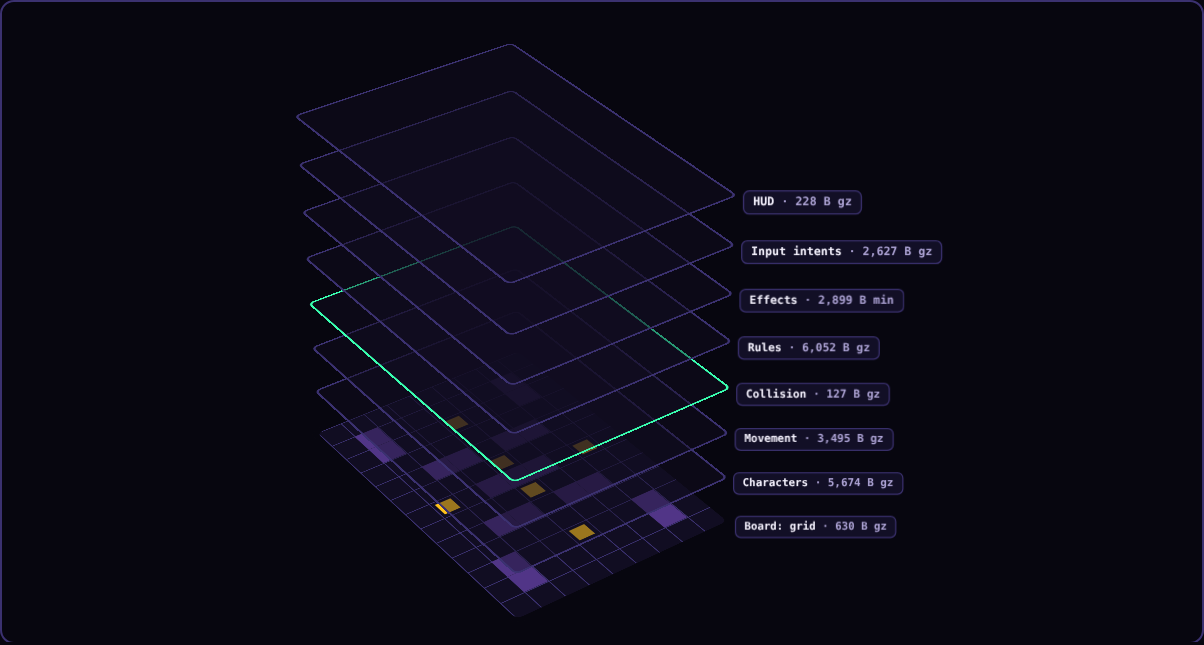
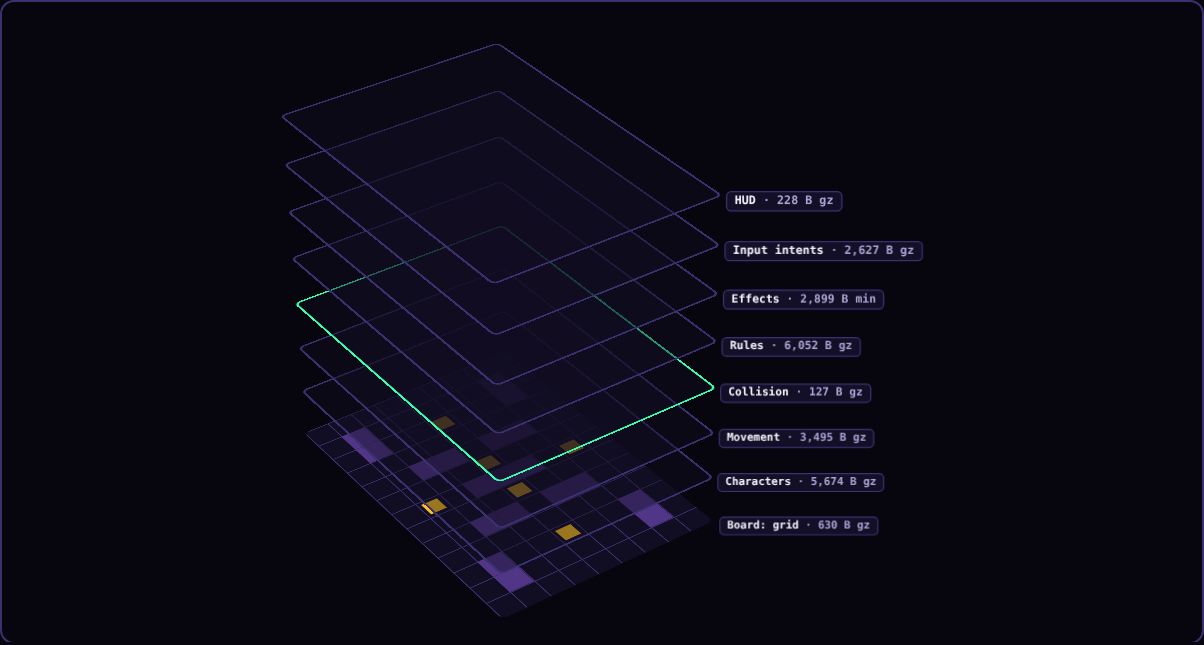
Layers story: clean labels at every size
Labels no longer smear (opacity on a preserve-3d layer flattened it; dim children instead),
stretch (state classes namespaced: lz--o/f/b/k, the demo page's .k matched), collide while the
stack folds (labels show only while it is fully open) or crowd on narrow slots (the gap widens to
keep a 28px label pitch; the widest label is measured at mount). Reduced-motion poster gets the
same pitch rule. New test: a full cycle at 390 and 1440 with no overlap, clip or smear.

Claude-Session: https://claude.ai/code/session_0153fwkiznjxyxnVJXRYF7zE

diff --git a/site/demos/layers/scene.ts b/site/demos/layers/scene.ts
@@ -13,7 +13,7 @@ import { createEngine } from "../../../src/kernel/index";
 import { spriteURL, type SpriteDef } from "../../../src/sprite";
 import { effects } from "../../../src/fx";
 import type { SlotMount, SlotScene } from "../../../src/slot";
-import { LAYERS, FAULT, fit, COLS, ROWS, CELL, BW, BH, MAP, TILT, TURN, GAP } from "./data";
+import { LAYERS, FAULT, fit, COLS, ROWS, CELL, BW, BH, MAP, TILT, TURN } from "./data";
 
 export interface LayersOptions {
   /** Cycles to run before settling when nobody interacts (default 3). */
@@ -64,13 +64,10 @@ export function mount(stage: HTMLElement, opts: LayersOptions = {}): SlotScene {
   const rim = tok("--rim", "#07060f");
   const pals: Record<string, string>[] = [{ tread: tok("--raised", "#1d1738"), team: tok("--team-a", "#39ffb0"), hatch: rim, rim }, { team: tok("--team-b", "#ff5c8f") }];
 
-  // ---------- fit: game pose and exploded pose (orthographic estimate, no DOM reads) ----------
-  const { sp, se, ex, ey } = fit(W, H);
-
   // ---------- DOM: one stack, eight layers ----------
   const root = engine.ledger.add(document.createElement("div"));
   root.className = "lz";
-  root.style.setProperty("--se", `${se}`);
+  root.style.setProperty("--se", "1");
   root.innerHTML = `<div class="lz-s"></div>`; // styles: SCENE_CSS (css.ts), inline on the host page
   const stack = root.lastElementChild as HTMLElement;
   const el = (parent: HTMLElement, cls: string, x = 0, y = 0) => {
@@ -87,6 +84,14 @@ export function mount(stage: HTMLElement, opts: LayersOptions = {}): SlotScene {
     t.innerHTML = `${LAYERS[i]!.name} <u>· ${bytes(LAYERS[i]!)}</u>`;
     layers.push(l), tags.push(t);
   }
+  // ---------- fit: game pose and exploded pose ----------
+  // One layout read, here at mount: the widest label at its on-screen size (--se 1 = 11px text), so
+  // the stack leaves room for the labels in whatever monospace font this device has.
+  stage.append(root);
+  let lw = 0;
+  for (const t of tags) lw = Math.max(lw, t.offsetWidth);
+  const { sp, se, ex, g } = fit(W, H, lw + 14); // + the 10px margin and 4px slack
+  root.style.setProperty("--se", `${se}`);
   const [gridL, charL, moveL, colL, rulesL, fxL, inL, hudL] = layers as [HTMLElement, HTMLElement, HTMLElement, HTMLElement, HTMLElement, HTMLElement, HTMLElement, HTMLElement];
   // Collision: the fixed copy, revealed by the scan, over the broken one.
   const fixed = el(colL, "lz-x");
@@ -208,18 +213,22 @@ export function mount(stage: HTMLElement, opts: LayersOptions = {}): SlotScene {
       const t = phase[0]!;
       const open = t < FOLD_AT ? smooth(PLAY, OPEN, t) : 1 - smooth(FOLD_AT, CLOSED, t);
       const s = sp + (se - sp) * open;
-      stack.style.transform = `translate(${ex * open}px,${ey * open}px) scale(${s}) rotateX(${TILT * open}deg) rotateZ(${TURN * open}deg)`;
+      // Labels only while the stack is fully open: in after it opens, out before the fold starts,
+      // so they never move, scale or crowd while the layers travel.
+      const label = smooth(OPEN, OPEN + 0.3, t) * (1 - smooth(FOLD_AT - 0.3, FOLD_AT, t));
+      stack.style.transform = `translateX(${ex * open}px) scale(${s}) rotateX(${TILT * open}deg) rotateZ(${TURN * open}deg)`;
       for (let i = 0; i < N; i++) {
         const l = layers[i]!;
-        l.style.transform = `translateZ(${(i - (N - 1) / 2) * GAP * open}px)`;
+        l.style.transform = `translateZ(${(i - (N - 1) / 2) * g * open}px)`;
         tags[i]!.style.transform = `rotateZ(${-TURN * open}deg) rotateX(${-TILT * open}deg)`;
-        tags[i]!.style.opacity = `${smooth(0.6, 1, open)}`;
+        tags[i]!.style.opacity = `${label}`;
       }
       // Fault, scan, patch, green.
       const bad = t >= FAULT_AT && t < SCAN_END, ok = t >= SCAN_END && t < OK_END;
       const p = smooth(SCAN_AT, SCAN_END, t);
-      // Classes: o = open (layer plates show), f = fault or fix (others dim), b = broken, k = patched.
-      root.className = `lz${open > 0.02 ? " o" : ""}${bad || ok ? " f" : ""}${bad ? " b" : ok ? " k" : ""}`;
+      // State classes (namespaced: a host page may style .o or .k): lz--o open (layer plates show),
+      // lz--f fault or fix (others dim), lz--b broken, lz--k patched.
+      root.className = `lz${open > 0.02 ? " lz--o" : ""}${bad || ok ? " lz--f" : ""}${bad ? " lz--b" : ok ? " lz--k" : ""}`;
       colL.style.setProperty("--g", `${Math.round(50 * (1 - smooth(SCAN_END, OK_END, t)))}%`);
       const h = `${t >= SCAN_AT && t < OK_END ? p * BH : t >= OK_END || t < FAULT_AT ? BH : 0}px`;
       if (fixed.style.height !== h) fixed.style.height = h;
@@ -265,7 +274,6 @@ export function mount(stage: HTMLElement, opts: LayersOptions = {}): SlotScene {
   };
   stage.addEventListener("pointerdown", again, { signal: engine.signal });
   stage.addEventListener("pointerenter", again, { signal: engine.signal });
-  stage.append(root);
   engine.start();
   return { destroy: () => engine.destroy() };
 }

diff --git a/site/demos/layers/poster.ts b/site/demos/layers/poster.ts
@@ -4,13 +4,13 @@
  * loads then: fizlet/slot keeps the fallback). Used at build time (build.mjs) and by hosts.
  */
 import { SCENE_CSS } from "./css";
-import { LAYERS, FAULT, ARIA, LABEL_W, bounds, COLS, ROWS, CELL, BW, BH, MAP, TILT, TURN, GAP } from "./data";
+import { LAYERS, FAULT, ARIA, LABEL_W, PITCH, SIN_TILT, BOUNDS, bounds, COLS, ROWS, CELL, BW, BH, MAP, TILT, TURN, GAP } from "./data";
 
 const B = bounds(), r3 = (v: number) => Math.max(0.05, Math.round(v * 1000) / 1000);
 // Scale steps by the slot's size (container queries): the poster fits with no script.
 let steps = "";
 for (let v = 250; v <= 1500; v += 50)
-  steps += `@container (min-width:${v}px){.lyr__s{--wp:${r3((v - 24) / (BW + 16))};--we:${r3((v - 28 - LABEL_W) / B.w)}}}@container (min-height:${v}px){.lyr__s{--hp:${r3((v - 24) / (BH + 20))};--he:${r3((v - 24) / B.h)}}}`;
+  steps += `@container (min-width:${v}px){.lyr__s{--wp:${r3((v - 24) / (BW + 16))};--we:${r3((v - 28 - LABEL_W) / B.w)}}}@container (min-height:${v}px){.lyr__s{--hp:${r3((v - 24) / (BH + 20))};--he:${r3((v - 24) / B.h)};--hg:${r3((v - 24 - 7 * PITCH) / BOUNDS.hb)}}}`;
 
 const N = LAYERS.length;
 
@@ -19,20 +19,20 @@ export { bounds, BOUNDS } from "./data";
 export const POSTER_CSS = SCENE_CSS + `
 .lyr{position:relative;margin:0;width:100%;aspect-ratio:4/5;max-height:640px;container-type:size;background:var(--rim);border:2px solid var(--line);border-radius:14px;overflow:hidden;contain:layout paint}
 .lyr__p{position:absolute;inset:0;perspective:2200px;font:700 11px/1 ui-monospace,SFMono-Regular,Menlo,Consolas,monospace;color:var(--ink)}
-.lyr__s{position:absolute;left:50%;top:50%;width:${BW}px;height:${BH}px;margin:-${BH / 2}px 0 0 -${BW / 2}px;transform-style:preserve-3d;--wp:.6;--hp:.6;--we:.2;--he:.2;--se:min(var(--we),var(--he));transform:scale(min(var(--wp),var(--hp)))}
+.lyr__s{position:absolute;left:50%;top:50%;width:${BW}px;height:${BH}px;margin:-${BH / 2}px 0 0 -${BW / 2}px;transform-style:preserve-3d;--wp:.6;--hp:.6;--we:.2;--he:.2;--hg:.2;--se:min(var(--we),var(--he),var(--hg));transform:scale(min(var(--wp),var(--hp)))}
 ${steps}
 .lyr__l{position:absolute;inset:0;transform-style:preserve-3d;border-radius:6px}
 .lyr__l>i{position:absolute;width:${CELL}px;height:${CELL}px;background:var(--k-cmd-base)}
 .lyr__l>i.c{background:var(--hurt);width:${CELL - 8}px;height:${CELL - 8}px;margin:4px}
 .lyr__g{background-color:var(--surface);background-image:linear-gradient(var(--line) 1px,transparent 1px),linear-gradient(90deg,var(--line) 1px,transparent 1px);background-size:${CELL}px ${CELL}px;outline:6px solid var(--rim)}
-.lyr__t{position:absolute;left:100%;top:100%;white-space:nowrap;padding:4px 7px;background:var(--card);border:2px solid var(--line);border-radius:5px;margin:-2px 0 0 10px;transform-origin:0 0;display:none}
+.lyr__t{position:absolute;left:100%;top:100%;white-space:nowrap;background:var(--card);border:2px solid var(--line);transform-origin:0 0;display:none}
 .lyr__t u{text-decoration:none;color:var(--muted)}
 @media (min-width:720px){.lyr{aspect-ratio:16/10}}
 @media (prefers-reduced-motion:reduce){
 .lyr__s{transform:translate(calc(${-LABEL_W / 2}px - ${B.cx.toFixed(2)}px * var(--se)),calc(${(-B.cy).toFixed(2)}px * var(--se))) scale(var(--se)) rotateX(${TILT}deg) rotateZ(${TURN}deg)}
-${LAYERS.map((_, i) => `.lyr__l:nth-child(${i + 1}){transform:translateZ(${(i - (N - 1) / 2) * GAP}px)}`).join("")}
+${LAYERS.map((_, i) => `.lyr__l:nth-child(${i + 1}){transform:translateZ(calc(${i - (N - 1) / 2} * max(${GAP}px, ${PITCH}px / (${SIN_TILT.toFixed(4)} * var(--se)))))}`).join("")}
 .lyr__l+.lyr__l{border:2px solid var(--line);background:color-mix(in srgb,var(--surface) 42%,transparent)}.lyr__l.lyr__f{border-color:var(--k-go)}
-.lyr__t{display:block;font-size:calc(11px / var(--se));border-width:calc(2px / var(--se));transform:rotateZ(${-TURN}deg) rotateX(${-TILT}deg)}
+.lyr__t{display:block;font-size:calc(11px / var(--se));border-width:calc(2px / var(--se));padding:calc(3px / var(--se)) calc(7px / var(--se));margin:calc(-2px / var(--se)) 0 0 calc(10px / var(--se));border-radius:calc(5px / var(--se));transform:rotateZ(${-TURN}deg) rotateX(${-TILT}deg)}
 }`;
 
 /** The slot figure: `<figure class="ae-slot lyr bui" data-slot-target="…">` with its poster inside. */

diff --git a/site/demos/layers/css.ts b/site/demos/layers/css.ts
@@ -1,11 +1,13 @@
-/** The scene's styles, inlined on the host page with the poster (so the live chunk carries no CSS). */
+/** The scene's styles, inlined on the host page with the poster (so the live chunk carries no CSS).
+ *  Never put opacity < 1 on a layer (.lz-l): it flattens preserve-3d, and its label would lose its
+ *  counter-rotation and smear into the layer's plane. Dim a layer's children instead. */
 import { CELL, BW, BH } from "./data";
 
-export const SCENE_CSS = `.lz.o .lz-l+.lz-l{border-color:var(--line);background:color-mix(in srgb,var(--surface) 42%,transparent)}
-.lz.f .lz-l+.lz-l:not([data-layer=collision]){opacity:.4}
-.lz [data-layer=collision]{opacity:0}.lz:is(.o,.b) [data-layer=collision]{opacity:1}
-.lz.b .lz-l[data-layer=collision],.lz.b .lz-l[data-layer=collision] .lz-tag{border-color:var(--k-fire)}.lz.b .lz-l[data-layer=collision]{background:color-mix(in srgb,var(--k-fire) 28%,transparent)}.lz.b .lz-l[data-layer=collision] .lz-tag u{color:var(--k-aim)}
-.lz.k .lz-l[data-layer=collision],.lz.k .lz-l[data-layer=collision] .lz-tag{border-color:var(--k-go)}.lz.k .lz-l[data-layer=collision]{background:color-mix(in srgb,var(--k-go) var(--g),transparent)}.lz.k .lz-l[data-layer=collision] .lz-tag u{color:var(--k-go)}
+export const SCENE_CSS = `.lz.lz--o .lz-l+.lz-l{border-color:var(--line);background:color-mix(in srgb,var(--surface) 42%,transparent)}
+.lz.lz--f .lz-l+.lz-l:not([data-layer=collision])>*{opacity:.4}.lz.lz--f .lz-l+.lz-l:not([data-layer=collision]){border-color:color-mix(in srgb,var(--line) 40%,transparent)}
+.lz [data-layer=collision]{opacity:0}.lz:is(.lz--o,.lz--b) [data-layer=collision]{opacity:1}
+.lz.lz--b .lz-l[data-layer=collision],.lz.lz--b .lz-l[data-layer=collision] .lz-tag{border-color:var(--k-fire)}.lz.lz--b .lz-l[data-layer=collision]{background:color-mix(in srgb,var(--k-fire) 28%,transparent)}.lz.lz--b .lz-l[data-layer=collision] .lz-tag u{color:var(--k-aim)}
+.lz.lz--k .lz-l[data-layer=collision],.lz.lz--k .lz-l[data-layer=collision] .lz-tag{border-color:var(--k-go)}.lz.lz--k .lz-l[data-layer=collision]{background:color-mix(in srgb,var(--k-go) var(--g),transparent)}.lz.lz--k .lz-l[data-layer=collision] .lz-tag u{color:var(--k-go)}
 .lz{position:absolute;inset:0;perspective:2200px;font:700 11px/1 ui-monospace,SFMono-Regular,Menlo,Consolas,monospace;color:var(--ink);user-select:none}
 .lz-s{position:absolute;left:50%;top:50%;width:${BW}px;height:${BH}px;margin:-${BH / 2}px 0 0 -${BW / 2}px;transform-style:preserve-3d;will-change:transform}
 .lz-l{position:absolute;inset:0;transform-style:preserve-3d;border:2px solid transparent;border-radius:6px}
@@ -26,5 +28,5 @@ export const SCENE_CSS = `.lz.o .lz-l+.lz-l{border-color:var(--line);background:
 .lz-hud{left:6px;right:6px;top:6px;display:flex;justify-content:space-between;padding:5px 7px;background:var(--card);border:2px solid var(--line);border-radius:6px;box-shadow:0 3px 0 var(--k-cmd-base)}
 .lz-hud b{color:var(--team-a)}.lz-hud i{font-style:normal;color:var(--team-b)}
 .lz-cv{inset:0;width:100%;height:100%}
-.lz-tag{font-size:calc(11px / var(--se));border-width:calc(2px / var(--se))!important;left:100%;top:100%;white-space:nowrap;transform-origin:0 0;padding:4px 7px;background:var(--card);border:2px solid var(--line);border-radius:5px;opacity:0;margin:-2px 0 0 10px}
+.lz-tag{font-size:calc(11px / var(--se));border-width:calc(2px / var(--se))!important;padding:calc(3px / var(--se)) calc(7px / var(--se));margin:calc(-2px / var(--se)) 0 0 calc(10px / var(--se));border-radius:calc(5px / var(--se));left:100%;top:100%;white-space:nowrap;transform-origin:0 0;background:var(--card);border:2px solid var(--line);opacity:0}
 .lz-tag u{text-decoration:none;color:var(--muted)}`;

diff --git a/site/demos/layers/data.ts b/site/demos/layers/data.ts
@@ -62,15 +62,22 @@ export const ARIA =
   "The collision layer turns red with a fault, a scan passes over it and patches it, it flashes green, " +
   "and the stack folds back into the game. It loops.";
 
-/** Width the labels take beside the exploded stack (screen px). */
-export const LABEL_W = 176;
+/** Width the labels take beside the exploded stack (screen px): the longest label, "Input intents ·
+ *  2,627 B gz" (26 mono characters at 11px ≈ 172px), plus padding, border and the 10px margin. */
+export const LABEL_W = 204;
+/** Label pitch (screen px): one label is 21px tall (11px text, 3px padding, 2px border, each side);
+ *  the exploded gap between layers widens so labels never sit closer than this. 28, not 22: the
+ *  perspective draws the far (lower) layers a few % smaller, so their pitch shrinks a little too. */
+export const PITCH = 28;
+/** sin(TILT): how much of the layer gap shows as vertical spacing on screen. */
+export const SIN_TILT = Math.sin((TILT * Math.PI) / 180);
 
 /**
- * Fit a W × H stage: `sp` the game-pose scale; `se`, `ex`, `ey` the exploded pose's scale and
- * offset (screen px). An orthographic estimate of the stack's corners: pure maths, no DOM reads.
+ * Fit a W × H stage: `sp` the game-pose scale; `se`, `ex` the exploded pose's scale and
+ * x offset (screen px; the stack is centred vertically). An orthographic estimate of the stack's corners: pure maths, no DOM reads.
  */
-export function bounds() {
-  const D = Math.PI / 180, n = 8;
+export function bounds(n = 8) {
+  const D = Math.PI / 180;
   const st = Math.sin(TURN * D), ct = Math.cos(TURN * D), sa = Math.sin(TILT * D), ca = Math.cos(TILT * D);
   let x0 = 1e9, x1 = -1e9, y0 = 1e9, y1 = -1e9;
   for (let i = 0; i < n; i++) {
@@ -83,11 +90,17 @@ export function bounds() {
   }
   return { w: x1 - x0, h: y1 - y0, cx: (x0 + x1) / 2, cy: (y0 + y1) / 2 };
 }
-/** bounds(), precomputed for the live chunk: the stack is symmetric (centre 0, 0). build.mjs fails
- *  if these drift from bounds(). */
-export const BOUNDS = { w: 358.14, h: 479.09 };
-export function fit(W: number, H: number) {
+/** bounds() and bounds(1) (one board, no gap), precomputed for the live chunk: the stack is
+ *  symmetric (centre 0, 0). build.mjs fails if these drift from the formula. */
+export const BOUNDS = { w: 358.14, h: 479.09, hb: 212.14 };
+/**
+ * The exploded gap (layer px) at scale `se`: GAP, or wider so the labels keep PITCH on screen.
+ */
+export const gap = (se: number) => Math.max(GAP, PITCH / (SIN_TILT * se));
+/** `lw`: the labels' width beside the stack (screen px), measured by the scene; LABEL_W by default. */
+export function fit(W: number, H: number, lw = LABEL_W) {
   const sp = Math.min((W - 24) / (BW + 16), (H - 24) / (BH + 20));
-  const se = Math.min((W - 28 - LABEL_W) / BOUNDS.w, (H - 24) / BOUNDS.h);
-  return { sp, se, ex: -LABEL_W / 2, ey: 0 };
+  // Height: the stack at GAP, and the board plus 7 label pitches when the gap has to widen.
+  const se = Math.min((W - 28 - lw) / BOUNDS.w, (H - 24) / BOUNDS.h, (H - 24 - 7 * PITCH) / BOUNDS.hb);
+  return { sp, se, ex: -lw / 2, g: gap(se) };
 }

diff --git a/CHANGELOG.md b/CHANGELOG.md
@@ -2,6 +2,24 @@
 
 ## Unreleased
 
+- **Layers story: clean labels at every size** (owner feedback: "at the end the layer labels get
+  a little jumbled"). Four causes, each fixed:
+  - while the fix phase dimmed the other layers, `opacity` on a `preserve-3d` layer flattened it,
+    so its label lost its counter-rotation and smeared into the layer's plane; the scene now dims
+    a layer's children, never the layer;
+  - the scene's state classes (`o`, `f`, `b`, `k`) could match a host page's CSS: the demo page's
+    `.k` kicker stretched every label for the patched phase. Now `lz--o`, `lz--f`, `lz--b`, `lz--k`;
+  - labels faded with the open amount, so they slid together and ran off the edge as the stack
+    folded; they now show only while the stack is fully open (in after it opens, out before the
+    fold starts);
+  - the exploded gap was fixed, so on narrow slots labels sat closer than their height. The gap now
+    widens to keep a 28px label pitch on screen, and the scene measures its widest label at mount
+    (one layout read), so a wide fallback monospace no longer clips. The reduced-motion poster gets
+    the same pitch rule in CSS.
+  New browser test: through one full cycle at 390 and 1440, every visible label faces the screen,
+  stays inside the figure and overlaps no other (fails on 0.10.0). Measured (Chromium 153, 4× CPU
+  throttle): live chunk 9,609 → 9,717 B gzip (still ≥ 5% under 10 KB), poster + loader 2,962 →
+  3,153 B; script per frame 0.8 ms median, 3.1 ms p95; CLS 0; 0 frames settled.
 - **Website: one page per brick, generated from the source.** `bricks/<id>.html` for the kernel
   and every brick (input, pad, collide, grid, fx, sprite, sound, embed, slot, hud, match,
   board-page, presence, ui, perf, rules, camera, debug) plus a bricks index. Each page has the module's summary (its

diff --git a/examples/layers/README.md b/examples/layers/README.md
@@ -40,6 +40,10 @@ Optional data attributes on the figure: `data-loops` (cycles before it settles, 
 - **Calm:** 30 fps cap; after `data-loops` cycles it rests on the game frame and the kernel settles
   (no `requestAnimationFrame` at all). A pointer on the slot runs one more cycle. Off screen or in a
   hidden tab it pauses.
+- **Labels:** shown only while the stack is fully open, never while it moves. The exploded gap
+  widens on narrow slots to keep a 28px label pitch, and the scene measures its widest label at
+  mount, so labels never overlap, clip or smear at any width (`npm run test:layers` checks a full
+  cycle at 390 and 1440).
 - **Reduced motion:** nothing loads; the poster shows the still exploded view with every
   label (CSS only, sized by container queries).
 - **Accessible:** the figure is `role="img"` with an `aria-label` describing the whole sequence.
@@ -47,9 +51,9 @@ Optional data attributes on the figure: `data-loops` (cycles before it settles, 
 
 ## Measured
 
-See `site/demos/layers/measured.json`. On Fizlet 0.8.1, Chromium 153: live chunk 10,054 B gzip
-(`fizlet/slot` + scene, loaded only once the slot is near); poster and loader inline 2,962 B gzip
-(loader 308 B); at 4× CPU throttle, script per frame 0.8 ms median, 2.6 ms p95, 6.3 ms max; layout
+See `site/demos/layers/measured.json`. On Fizlet 0.10.0, Chromium 153: live chunk 9,717 B gzip
+(`fizlet/slot` + scene, loaded only once the slot is near); poster and loader inline 3,153 B gzip
+(loader 308 B); at 4× CPU throttle, script per frame 0.8 ms median, 3.1 ms p95, 9.9 ms max; layout
 shift 0; 0 frames once settled; 0 B of JS fetched before the slot nears the viewport.
 
 Against the hero budgets in fizlet-engine `docs/LAYERS.md`: live chunk ≤ 10 KB ✔, poster ≤ 6 KB ✔,
